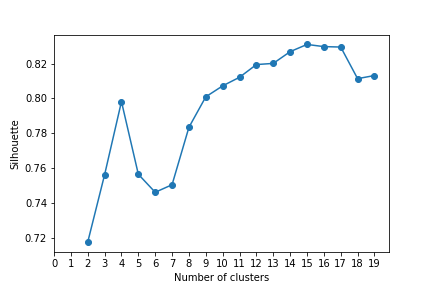
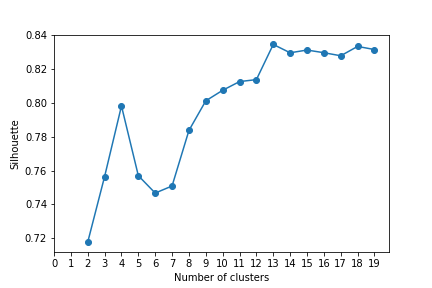
Fix: Gyroscope Dendogram
Added normalization before dendogram

diff --git a/docs/lab_book.tex b/docs/lab_book.tex
@@ -331,12 +331,13 @@ After that, we plot the dendogram of the features (Figure \ref{Dendogram Gyrosco
 \label{Dendogram Gyroscope}
 \end{figure}
 
-As expected, the most similar features are \textit{Mean} and \textit{Median} of the x axis of the gyroscope. We won't remove any of them, as we consider of interest the fact that only in this case, \textit{Mean} and \textit{Median} differ this much. We want this fact to influence the next steps or experiments.
+As we can see, the most similar features are the \textit{Variances} of the three axis of the gyroscope (at, the left, in green color), so we drop two of them, as they don't add much informacion, and keep only \textit{GyroscopeStat\_x\_VAR}. 
+The next more similar features (right, red color), are \textit{GyroscopeStat\_x\_MEDIAN} and \textit{GyroscopeStat\_COV\_z\_x}, wich is something we were expecting, due to the influence of the x axis of the \textit{Gyroscope} in both features. Due to this fact, we don't consider this features similar enough so one of them gets removed, so we keep both.
 
 \clearpage
 Now that we have our data only with the features that are considered relevant, we proceed to visualize the data, by using \textit{k-means}.\\
 
-First, we apply PCA, and obtain an \textit{explained\_variance\_ratio} of \textbf{0.809} and \textbf{0.128}. It's a high result, so we expect to obtain a good visualization. The plot of PCA is:
+First, we apply PCA, and obtain an \textit{explained\_variance\_ratio} of \textbf{0.825} and \textbf{0.130}. It's a high result, so we expect to obtain a good visualization. The plot of PCA is:
 
 \begin{figure}[h]
 \includegraphics[width=0.9\linewidth]{2710/PCA_Plot_Gyroscope.png}

diff --git a/src/features/build_features_Gyroscope.py b/src/features/build_features_Gyroscope.py
@@ -5,6 +5,7 @@ from numpy import corrcoef, transpose, arange
 from pylab import pcolor, show, colorbar, xticks, yticks, savefig
 import sklearn.neighbors
 from scipy import cluster
+from sklearn import preprocessing 
 
 OUTPUT_FIG = "../../reports/figures/2710/"
 
@@ -72,17 +73,21 @@ xticks(arange(0,12),range(0,12))
 savefig(OUTPUT_FIG + "Features_CorrelationMatrix_postDrop")
 show()    
 
+#We normalize the data
+scaler = preprocessing.MinMaxScaler()
+datanorm = scaler.fit_transform(df_T)
+
 # Now we plot a dendogram.
 dist = sklearn.neighbors.DistanceMetric.get_metric('euclidean')
-matsim = dist.pairwise(transpose(df_T))
+matsim = dist.pairwise(transpose(datanorm))
 clusters = cluster.hierarchy.linkage(matsim, method = 'complete')
-cluster.hierarchy.dendrogram(clusters, color_threshold=0)
+cluster.hierarchy.dendrogram(clusters, color_threshold=2.7)
 plt.savefig(OUTPUT_FIG +"Features_Dendogram")
 plt.show()
 
-#As expected, the most similar features, the first action taken by the dendogram,
-# is grouping features 0 and 1, Gyroscope X Mean and Median. But, we don't want to
-# remove any of them, they had a (surprisingly) low correlation.
+# We drop the most similar features
+df_T = df_T.drop("GyroscopeStat_y_VAR", axis = 1)
+df_T = df_T.drop("GyroscopeStat_z_VAR", axis = 1)
 
 # Save processed data 
 df_T.to_csv('../../data/processed/T2_Gyroscope.csv', index=False)
